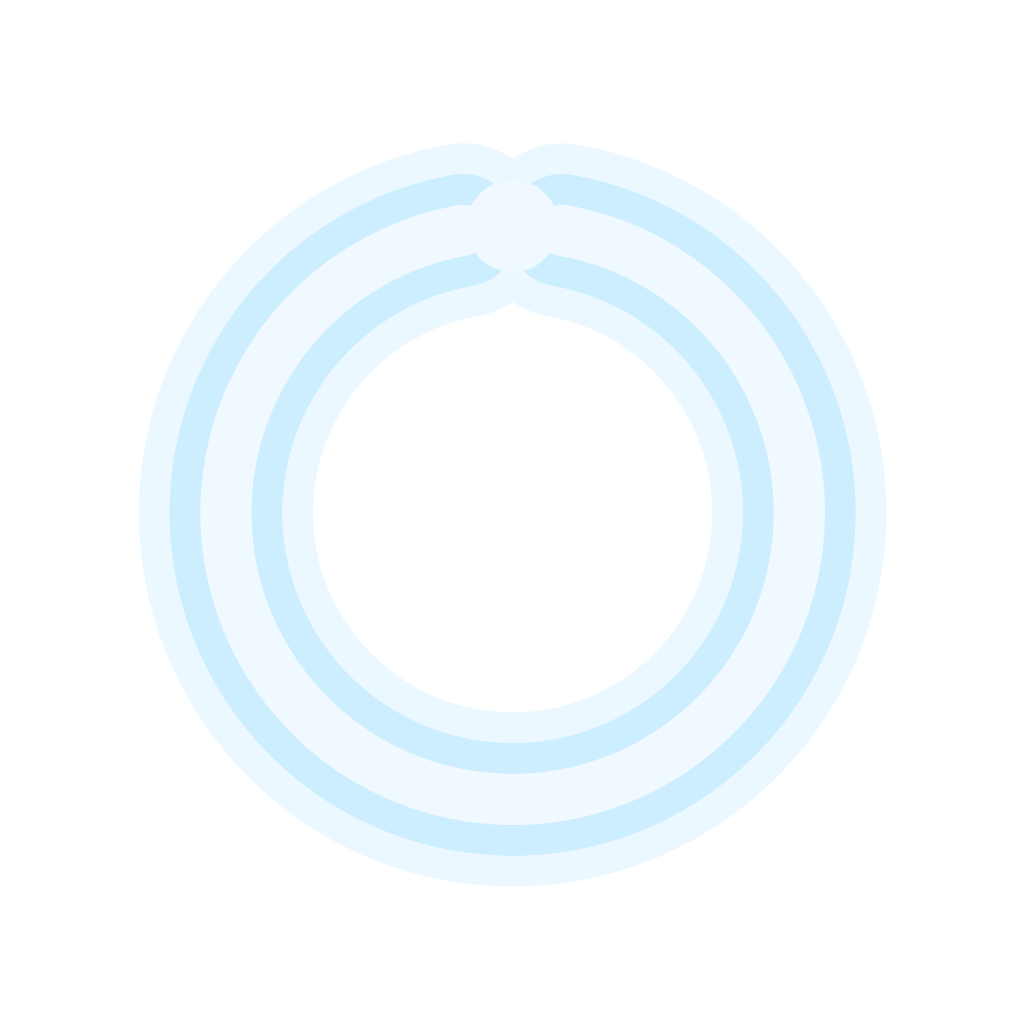
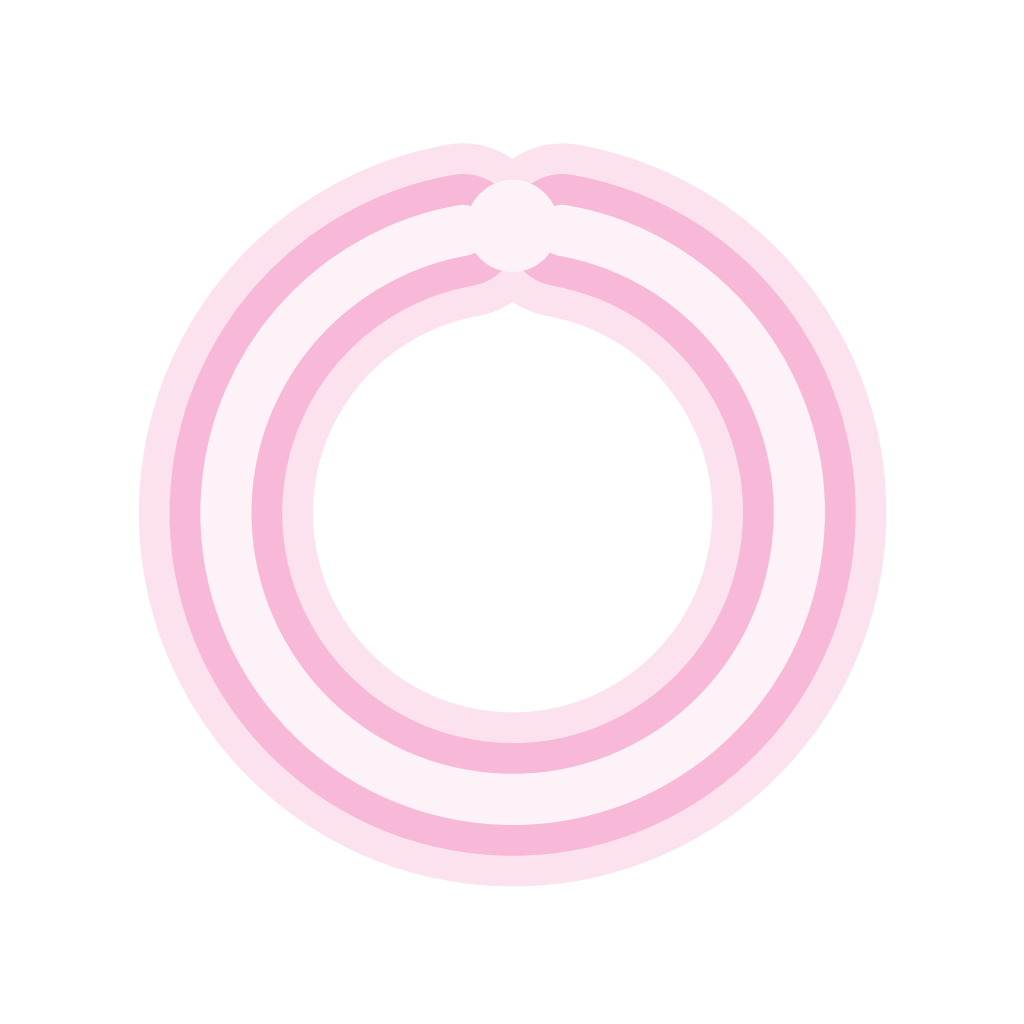
feat(brand): PACER dark-first foundation — art assets, Anton, gradient CTA, pink identity
- Rebrand to PACER ("RUN. CLAIM. CONQUER."): app display name, brand tokens
  (pink #EC4899 / purple #8B5CF6 + gradient pair), icon/adaptive/favicon/
  splash regenerated with the pink glow loop + PACER wordmark; LoopMark pink.
  Slug/bundleID unchanged (EAS project + dev-build provisioning stay valid;
  rename before store submission if desired).
- DARK-FIRST theme: `colors` is now the dark palette app-wide (lightColors
  kept as an export); type defaults resolve dark; status bars light-content;
  card/raised shadows removed per the dark constitution (depth = surface
  steps); nav theme + headers inherit dark automatically.
- Type: Anton (condensed athletic caps) for hero/display/title; Space
  Grotesk stays for tabular stats; Inter for body.
- Button gains gradient (brand pink→purple LinearGradient) and outline
  variants; radius moves to md per the mockups.
- assets/art/: hero-welcome, onboarding-loop, onboarding-clans,
  onboarding-safety, season-banner (user-provided AI art).
- Deps: expo-linear-gradient, @expo-google-fonts/anton.

Changed region(s): [[0.1562, 0.1562, 0.8438, 0.8438]]

diff --git a/frontend/src/components/ui/Button.js b/frontend/src/components/ui/Button.js
@@ -1,11 +1,13 @@
 // Button — the one button. Variants: primary (accent fill), secondary
-// (neutral surface), destructive (desaturated danger), ghost (text only).
-// Press feedback = scale 0.97 + light haptic (constitution).
+// (neutral surface), destructive (desaturated danger), ghost (text only),
+// gradient (the PACER pink→purple brand CTA), outline (thin brand border).
+// Press feedback = scale 0.97 + light haptic.
 
 import React from 'react';
 import { ActivityIndicator, Text, View } from 'react-native';
+import { LinearGradient } from 'expo-linear-gradient';
 
-import { colors, radius, space, type } from '../../theme';
+import { brand, colors, radius, space, type } from '../../theme';
 import { haptic, PressableScale } from '../../ui/motion';
 
 export default function Button({
@@ -35,6 +37,10 @@ export default function Button({
   } else if (variant === 'ghost') {
     bg = 'transparent';
     fg = accent;
+  } else if (variant === 'outline') {
+    bg = 'transparent';
+    fg = brand.pink;
+    border = brand.pink;
   }
 
   const handlePress = () => {
@@ -42,6 +48,46 @@ export default function Button({
     haptic.light();
     onPress?.();
   };
+
+  const inner = loading ? (
+    <ActivityIndicator color={variant === 'gradient' ? '#fff' : fg} />
+  ) : (
+    <>
+      {icon ? <View>{icon}</View> : null}
+      <Text style={[textStyle, { color: variant === 'gradient' ? '#fff' : fg }]}>{title}</Text>
+    </>
+  );
+
+  const shape = {
+    height,
+    borderRadius: radius.md,
+    alignItems: 'center',
+    justifyContent: 'center',
+    flexDirection: 'row',
+    gap: 8,
+    paddingHorizontal: space.xl,
+  };
+
+  if (variant === 'gradient') {
+    return (
+      <PressableScale
+        onPress={handlePress}
+        disabled={disabled || loading}
+        accessibilityRole="button"
+        accessibilityLabel={title}
+        style={[{ alignSelf: full ? 'stretch' : 'flex-start', opacity: disabled ? 0.5 : 1 }, style]}
+      >
+        <LinearGradient
+          colors={brand.gradient}
+          start={{ x: 0, y: 0.5 }}
+          end={{ x: 1, y: 0.5 }}
+          style={shape}
+        >
+          {inner}
+        </LinearGradient>
+      </PressableScale>
+    );
+  }
 
   return (
     <PressableScale
@@ -51,29 +97,16 @@ export default function Button({
       accessibilityLabel={title}
       style={[
         {
-          height,
-          borderRadius: radius.pill,
-          alignItems: 'center',
-          justifyContent: 'center',
-          flexDirection: 'row',
-          gap: 8,
-          paddingHorizontal: space.xl,
+          ...shape,
           backgroundColor: bg,
-          ...(border ? { borderWidth: 1, borderColor: border } : {}),
+          ...(border ? { borderWidth: 1.5, borderColor: border } : {}),
           alignSelf: full ? 'stretch' : 'flex-start',
           opacity: disabled ? 0.5 : 1,
         },
         style,
       ]}
     >
-      {loading ? (
-        <ActivityIndicator color={fg} />
-      ) : (
-        <>
-          {icon ? <View>{icon}</View> : null}
-          <Text style={[textStyle, { color: fg }]}>{title}</Text>
-        </>
-      )}
+      {inner}
     </PressableScale>
   );
 }

diff --git a/frontend/src/theme/tokens.js b/frontend/src/theme/tokens.js
@@ -1,14 +1,17 @@
 // Scale tokens: fonts, radius, spacing, elevation, type scale, and the
-// run-recording tuning constants. Color-bearing type styles resolve their
-// default color from the light palette (screens override `color` as needed).
+// run-recording tuning constants. DARK-FIRST: color-bearing type styles
+// resolve their default color from the dark palette.
 
-import { colors } from './light';
+import { darkColors as colors } from './dark';
 
 // ---------------------------------------------------------------------------
 // Fonts (keys must match the families passed to useFonts in App.js)
+// PACER: Anton for hero display/titles (condensed athletic caps),
+// Space Grotesk for stats (tabular), Inter for everything else.
 // ---------------------------------------------------------------------------
 
 export const fonts = {
+  hero: 'Anton_400Regular',
   display: 'SpaceGrotesk_700Bold',
   displayMedium: 'SpaceGrotesk_500Medium',
   body: 'Inter_400Regular',
@@ -49,27 +52,15 @@ export const space = {
 };
 
 // ---------------------------------------------------------------------------
-// Elevation — exactly three levels. Never combine border + shadow on one
-// element. `glow(color)` is the ONE signature effect, reserved for the
-// Record trail, the Result card, and territory rendering.
+// Elevation — dark theme uses SURFACE STEPS, not shadows (constitution).
+// card/raised are intentionally empty; depth comes from surface color.
+// `glow(color)` is the signature effect (trails, CTAs, territory).
 // ---------------------------------------------------------------------------
 
 export const shadow = {
   flat: {},
-  card: {
-    shadowColor: '#16181d',
-    shadowOpacity: 0.06,
-    shadowRadius: 8,
-    shadowOffset: { width: 0, height: 2 },
-    elevation: 1,
-  },
-  raised: {
-    shadowColor: '#16181d',
-    shadowOpacity: 0.12,
-    shadowRadius: 20,
-    shadowOffset: { width: 0, height: 8 },
-    elevation: 6,
-  },
+  card: {},
+  raised: {},
   glow: (color) => ({
     shadowColor: color,
     shadowOpacity: 0.55,
@@ -87,8 +78,10 @@ export const shadow = {
 const TABULAR = ['tabular-nums'];
 
 export const type = {
-  display: { fontFamily: fonts.display, fontSize: 34, letterSpacing: -0.5, color: colors.text },
-  title: { fontFamily: fonts.display, fontSize: 24, letterSpacing: -0.3, color: colors.text },
+  // Anton hero styles — condensed athletic caps (PACER headlines/wordmark).
+  hero: { fontFamily: fonts.hero, fontSize: 40, letterSpacing: 0.5, textTransform: 'uppercase', color: colors.text },
+  display: { fontFamily: fonts.hero, fontSize: 32, letterSpacing: 0.5, textTransform: 'uppercase', color: colors.text },
+  title: { fontFamily: fonts.hero, fontSize: 22, letterSpacing: 0.5, textTransform: 'uppercase', color: colors.text },
   heading: { fontFamily: fonts.display, fontSize: 18, color: colors.text },
 
   statHero: { fontFamily: fonts.display, fontSize: 44, letterSpacing: -1, fontVariant: TABULAR, color: colors.text },

diff --git a/frontend/src/theme/index.js b/frontend/src/theme/index.js
@@ -1,29 +1,48 @@
-// Territory Run design tokens — single entry point. Everything re-exports
-// through here, so `import { colors, space, type } from '../theme'` keeps
-// working across the app. Structure:
+// PACER design tokens — single entry point.
+//
+// DARK-FIRST: the app ships dark everywhere (per the PACER design). The
+// palette every screen imports as `colors` IS the dark palette; the old
+// light palette remains exported as `lightColors` for share cards or future
+// light surfaces. `darkColors` stays for code that asks for dark explicitly.
+//
 //   tokens.js  — fonts, radius, spacing, elevation, type, run tuning
-//   light.js   — light surfaces + desaturated semantics
-//   dark.js    — dark "night run" surfaces (3 elevation steps)
+//   light.js   — legacy light surfaces (kept for reference/exports)
+//   dark.js    — the shipped palette (3 surface elevation steps)
 //   motion.js  — spring/timing presets
 //   haptics.js — restrained haptic wrappers
 
 export * from './tokens';
-export * from './light';
 export * from './dark';
 export * from './motion';
 export { haptic } from './haptics';
+export { colors as lightColors } from './light';
 
-import { colors } from './light';
 import { darkColors } from './dark';
 import { fonts, radius, space, shadow, type, runTuning, withAlpha } from './tokens';
 
-// Clan colors are now server-owned (backend/app/clans_meta.py) and delivered
-// per-entity on the API; there is no client-side team/clan palette here.
+// Dark-first: `colors` (what all screens import) is the dark palette.
+export const colors = darkColors;
+
+// ---------------------------------------------------------------------------
+// Brand — PACER. The pink→purple gradient is the brand CTA; clan colors
+// remain each user's accent for territory/trails/stats.
+// ---------------------------------------------------------------------------
+
+export const brand = {
+  name: 'PACER',
+  tagline: 'RUN. CLAIM. CONQUER.',
+  pink: '#ec4899',
+  purple: '#8b5cf6',
+  teal: '#2dd4bf',
+  gradient: ['#ec4899', '#8b5cf6'],
+  gradientTeal: ['#8b5cf6', '#2dd4bf'],
+};
 
 export const tokens = {
   fonts,
   colors,
   darkColors,
+  brand,
   radius,
   space,
   shadow,

diff --git a/frontend/App.js b/frontend/App.js
@@ -20,6 +20,7 @@ import {
   Inter_600SemiBold,
   Inter_700Bold,
 } from '@expo-google-fonts/inter';
+import { Anton_400Regular } from '@expo-google-fonts/anton';
 
 import HomeScreen from './src/screens/HomeScreen';
 import RunningScreen from './src/screens/RunningScreen';
@@ -256,7 +257,7 @@ function RootStack() {
 function FullScreenSpinner() {
   return (
     <View style={{ flex: 1, backgroundColor: colors.bg, justifyContent: 'center', alignItems: 'center' }}>
-      <StatusBar barStyle="dark-content" backgroundColor={colors.bg} />
+      <StatusBar barStyle="light-content" backgroundColor={colors.bg} />
       <ActivityIndicator size="large" color={colors.primary} />
     </View>
   );
@@ -313,6 +314,7 @@ function App() {
     Inter_500Medium,
     Inter_600SemiBold,
     Inter_700Bold,
+    Anton_400Regular,
   });
 
   useEffect(() => {
@@ -327,7 +329,7 @@ function App() {
         <AuthProvider>
           <ClanProvider>
             <RecordingProvider>
-              <StatusBar barStyle="dark-content" backgroundColor={colors.bg} />
+              <StatusBar barStyle="light-content" backgroundColor={colors.bg} />
               <RootNavigator />
               <OfflineBanner />
               <ToastHost />

diff --git a/frontend/src/components/LoopMark.js b/frontend/src/components/LoopMark.js
@@ -7,8 +7,8 @@ import Svg, { Circle, Path } from 'react-native-svg';
 
 import { withAlpha } from '../theme';
 
-const GLOW = '#7dd3fc';
-const CORE = '#f0f9ff';
+const GLOW = '#ec4899'; // PACER pink
+const CORE = '#fdf2f8';
 
 export default function LoopMark({ size = 28, color = CORE, glowColor = GLOW, glow = true }) {
   const c = size / 2;
